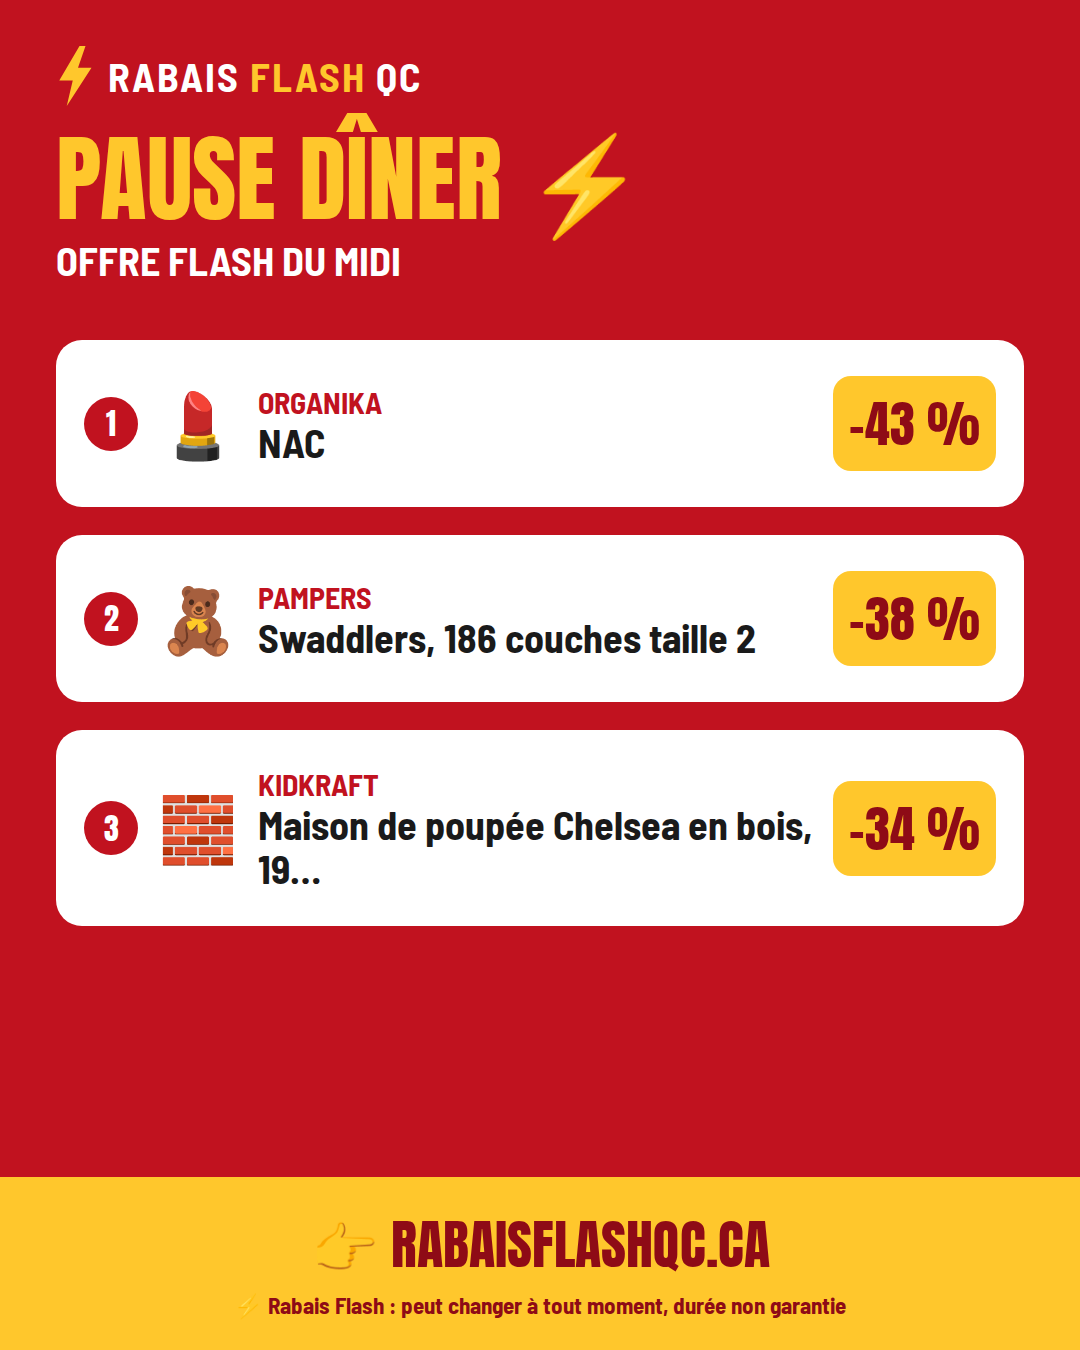
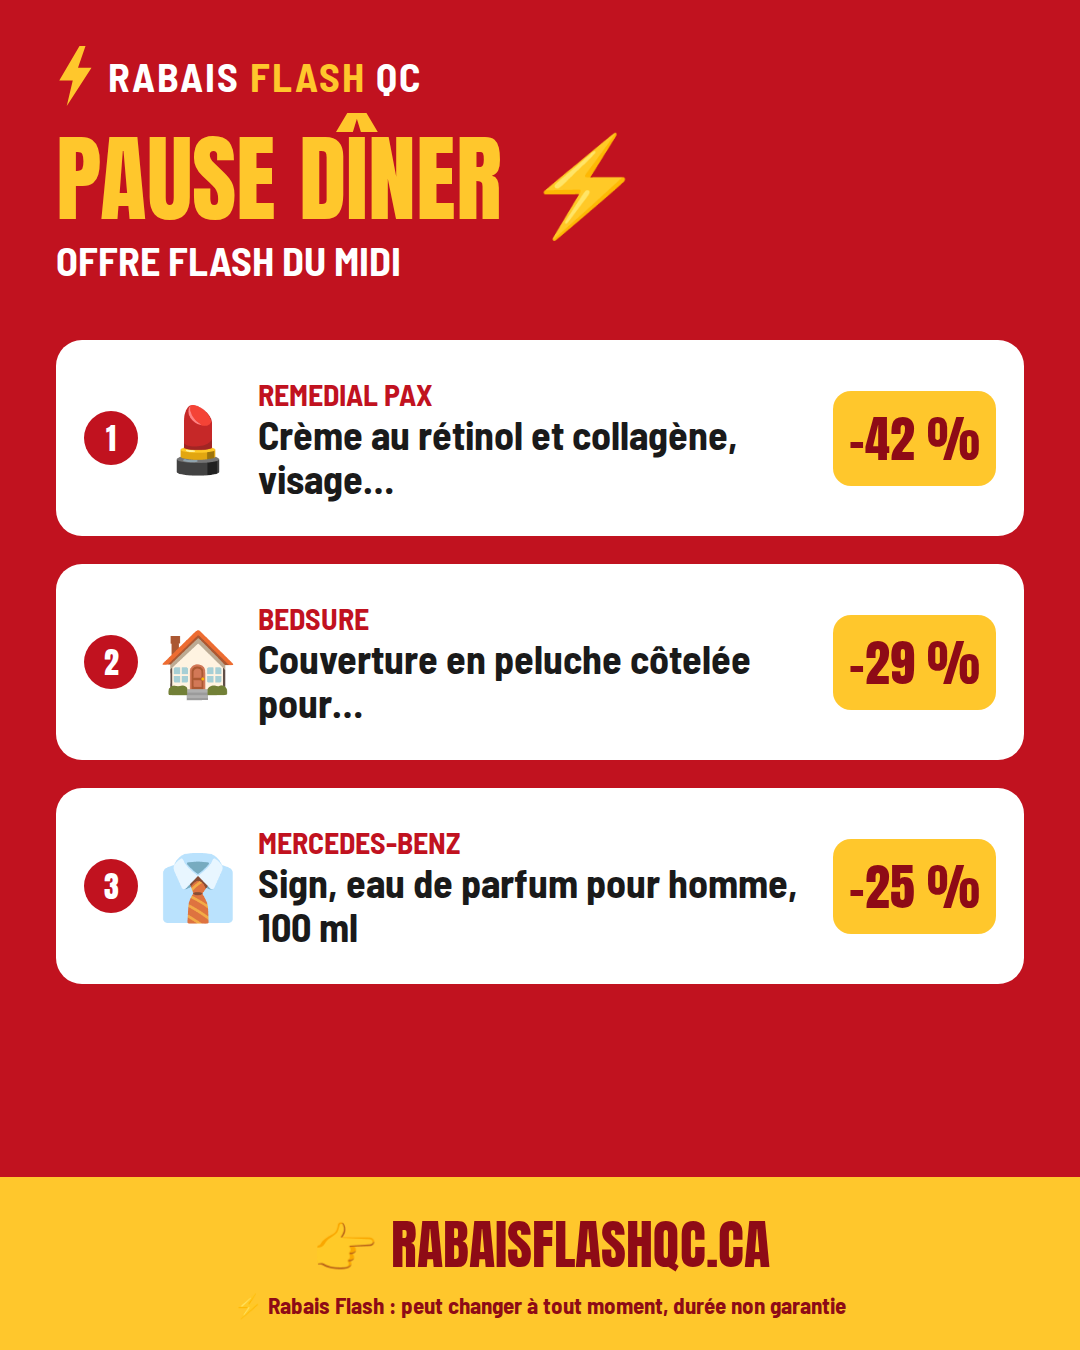
Mise à jour automatique des deals

Changed region(s): [[0.0306, 0.28, 0.9472, 0.7467], [0.0611, 0.28, 0.1222, 0.3422]]

diff --git a/docs/pack-du-jour/index.html b/docs/pack-du-jour/index.html
@@ -27,11 +27,11 @@ En tant que Partenaire Amazon, je réalise un bénéfice sur les achats rempliss
 #RabaisFlashQC #AubainesQuébec #DealsQC #Québec #Halloween</pre><button data-c="matin-t">📋 Copier le texte</button><h3>Premier commentaire à épingler</h3><pre id="matin-c">🔗 Tous les deals triés : https://rabaisflashqc.ca
 🎁 Guides cadeaux de Noël : https://rabaisflashqc.ca/idees-cadeaux/
 
-En tant que Partenaire Amazon, je réalise un bénéfice sur les achats remplissant les conditions requises.</pre><button data-c="matin-c">📋 Copier le commentaire</button></section><section class="c"><h2>🥪 Bonus du midi</h2><p class="m">Préparé le 2026-10-31 11:50 (heure du Québec)</p><img src="midi.png?v=202610311150" alt="Image du post"><p><a class="btn" href="midi.png?v=202610311150" download>⬇ Télécharger l'image</a></p><h3>Texte du post</h3><pre id="midi-t">🥪 Pause dîner? Voici un petit rabais à croquer :
+En tant que Partenaire Amazon, je réalise un bénéfice sur les achats remplissant les conditions requises.</pre><button data-c="matin-c">📋 Copier le commentaire</button></section><section class="c"><h2>🥪 Bonus du midi</h2><p class="m">Préparé le 2026-11-01 11:53 (heure du Québec)</p><img src="midi.png?v=202611011153" alt="Image du post"><p><a class="btn" href="midi.png?v=202611011153" download>⬇ Télécharger l'image</a></p><h3>Texte du post</h3><pre id="midi-t">⚡ Offre flash du midi! Ça passe vite, comme la pause :
 
-💄 Organika : NAC (-43 %)
-🧸 Pampers : Swaddlers, 186 couches taille 2 (-38 %)
-🧱 KidKraft : Maison de poupée Chelsea en bois, 19 meubles… (-34 %)
+💄 Remedial Pax : Crème au rétinol et collagène, visage et cou,… (-42 %)
+🏠 Bedsure : Couverture en peluche côtelée pour canapé, lin (-29 %)
+👔 Mercedes-Benz : Sign, eau de parfum pour homme, 100 ml (-25 %)
 
 👉 Tous les deals triés, sans chercher : https://rabaisflashqc.ca
 
@@ -41,7 +41,7 @@ En tant que Partenaire Amazon, je réalise un bénéfice sur les achats rempliss
 
 En tant que Partenaire Amazon, je réalise un bénéfice sur les achats remplissant les conditions requises.
 
-#RabaisFlashQC #AubainesQuébec #DealsQC #Québec #Halloween</pre><button data-c="midi-t">📋 Copier le texte</button><h3>Premier commentaire à épingler</h3><pre id="midi-c">🔗 Tous les deals triés : https://rabaisflashqc.ca
+#RabaisFlashQC #AubainesQuébec #DealsQC #Québec #Noël #CadeauxDeNoël</pre><button data-c="midi-t">📋 Copier le texte</button><h3>Premier commentaire à épingler</h3><pre id="midi-c">🔗 Tous les deals triés : https://rabaisflashqc.ca
 🎁 Guides cadeaux de Noël : https://rabaisflashqc.ca/idees-cadeaux/
 
 En tant que Partenaire Amazon, je réalise un bénéfice sur les achats remplissant les conditions requises.</pre><button data-c="midi-c">📋 Copier le commentaire</button></section><section class="c"><h2>🌙 Deal du soir, 20 h</h2><p class="m">Préparé le 2026-10-31 19:32 (heure du Québec)</p><img src="soir.png?v=202610311932" alt="Image du post"><p><a class="btn" href="soir.png?v=202610311932" download>⬇ Télécharger l'image</a></p><h3>Texte du post</h3><pre id="soir-t">🍷 Tu l&#x27;as bien mérité. Regarde ce qu&#x27;on a déniché aujourd&#x27;hui :
